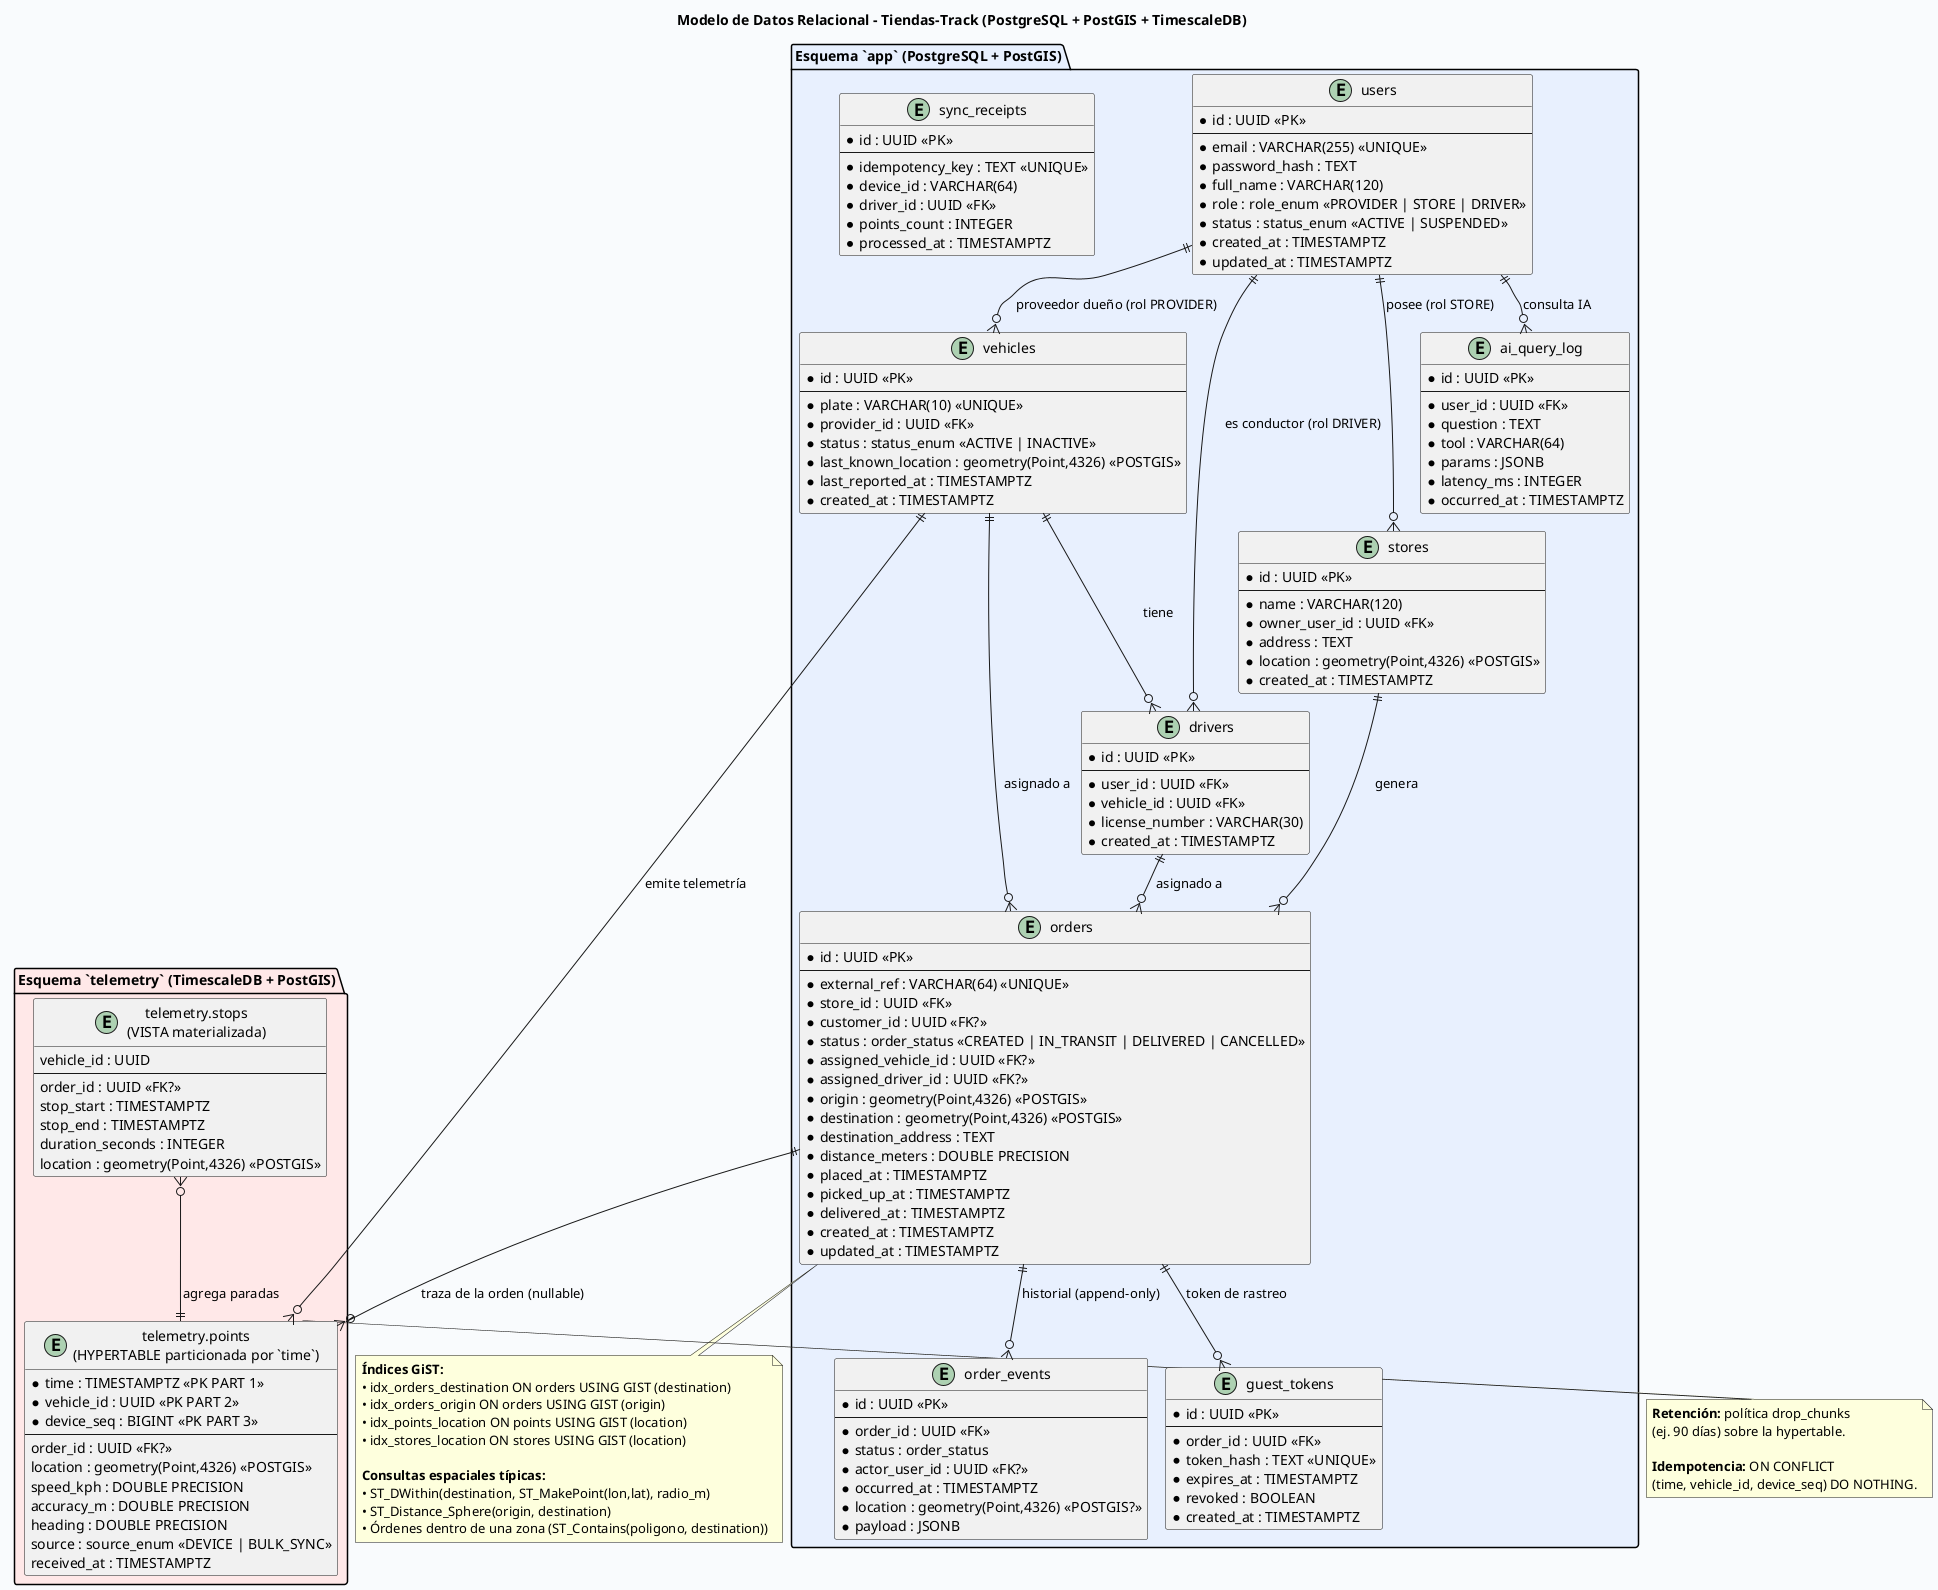
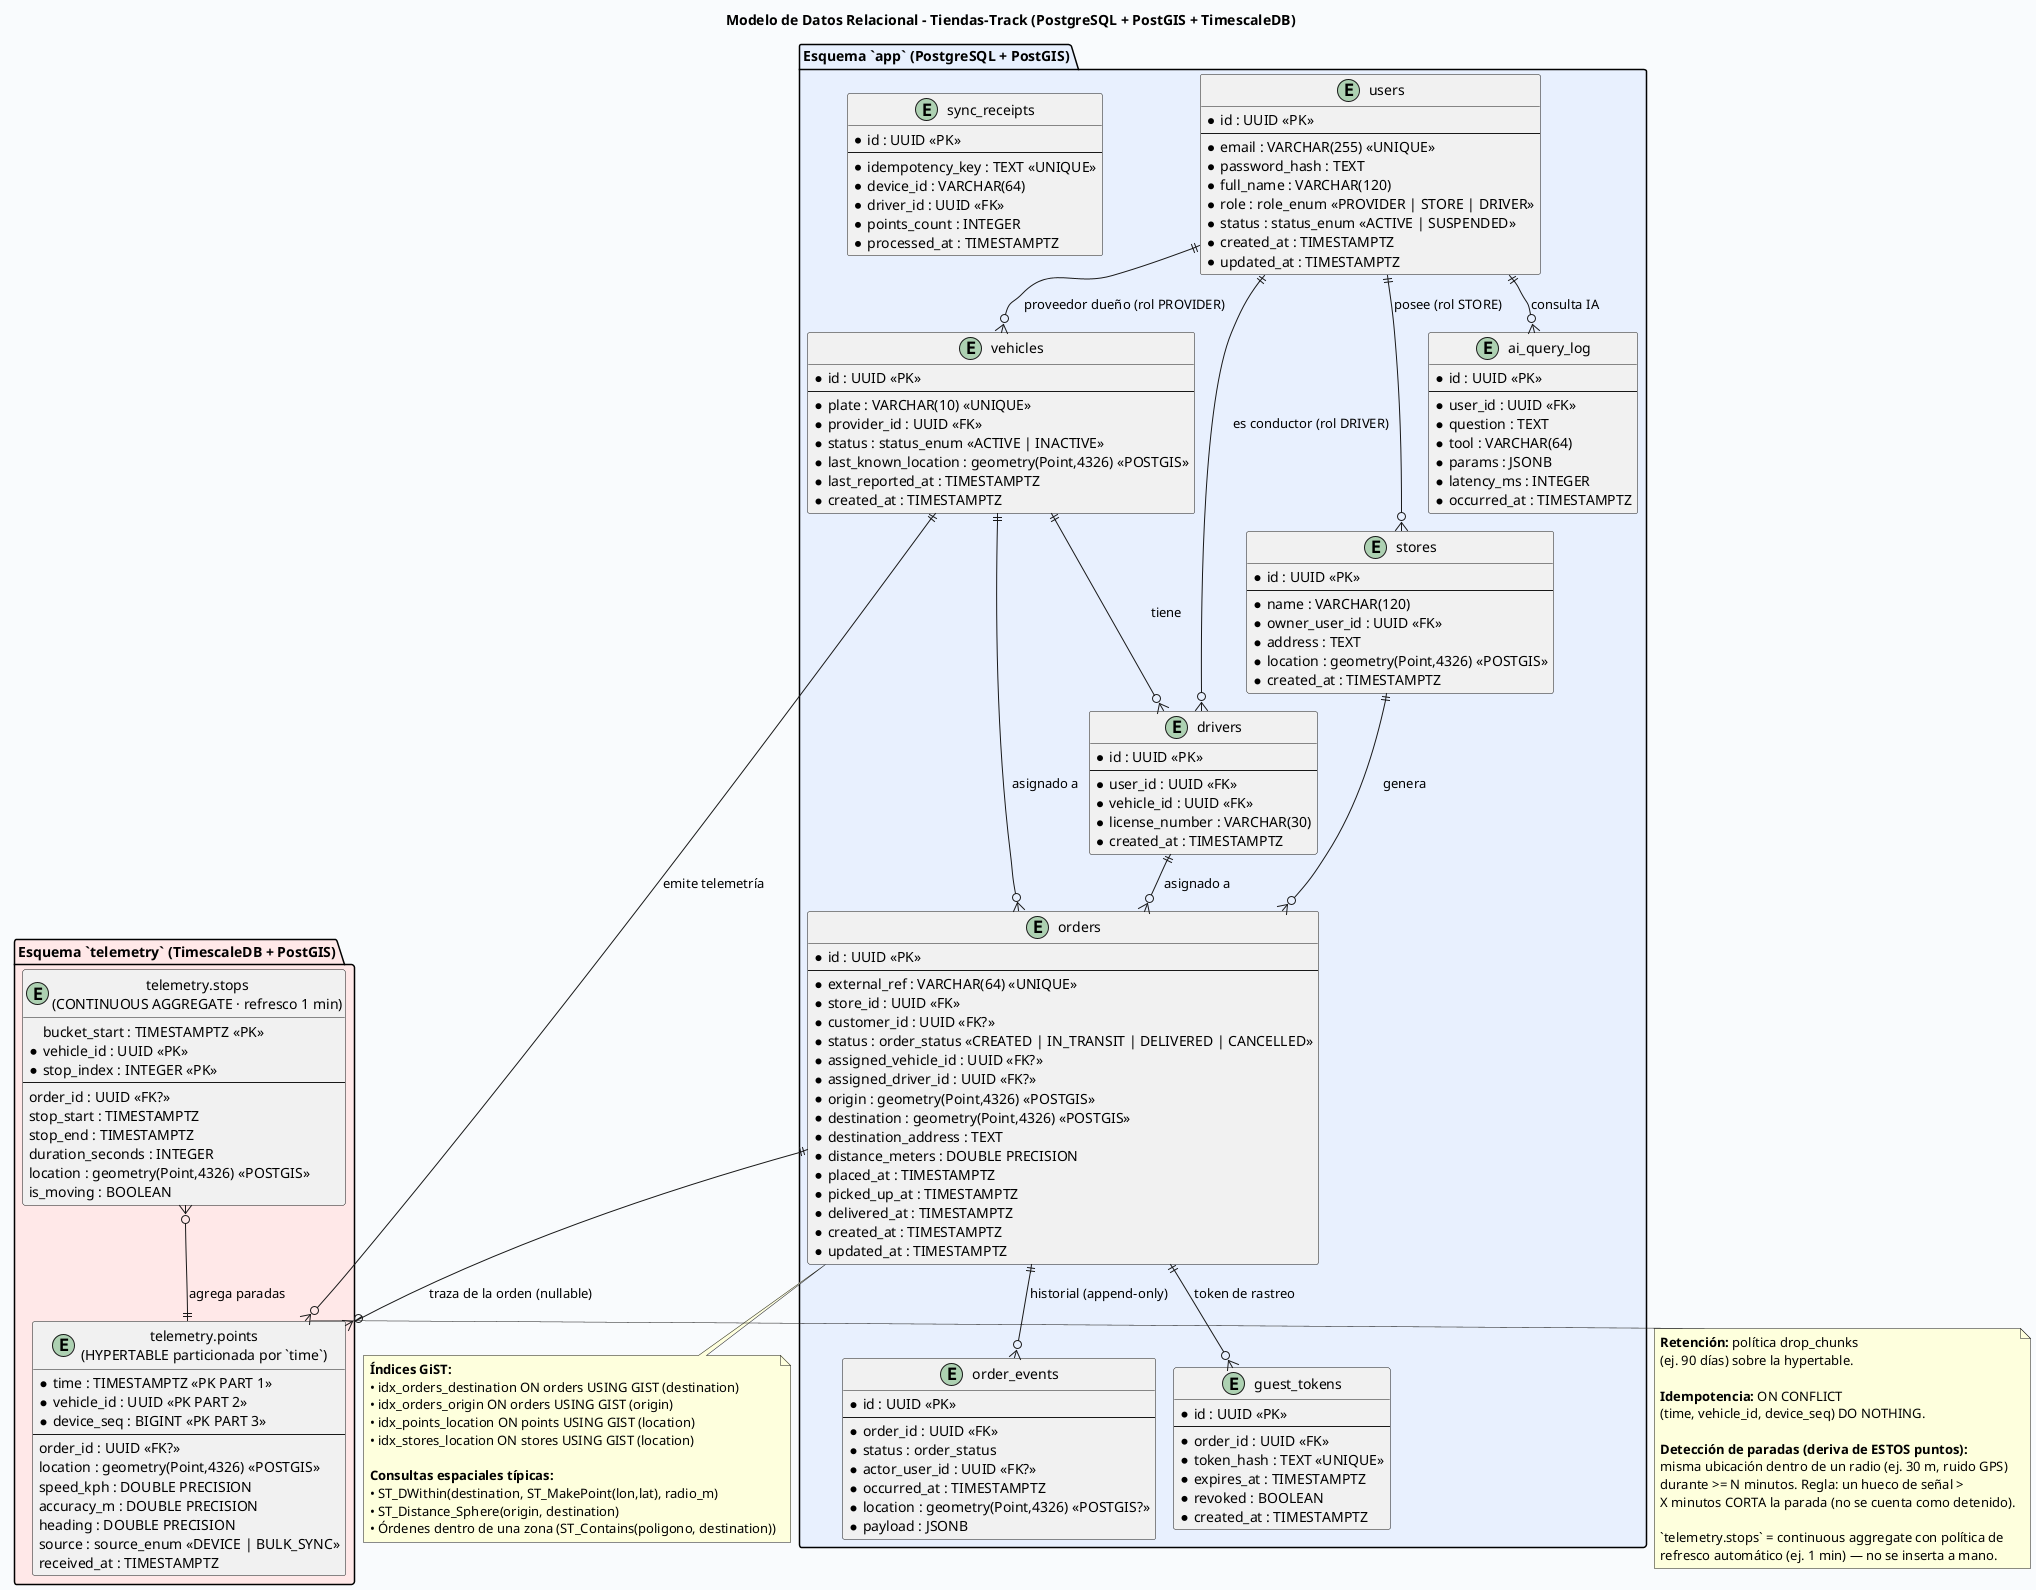
update model data

diff --git a/doc/arquitectura/database/modelo_datos.md b/doc/arquitectura/database/modelo_datos.md
@@ -34,7 +34,7 @@ Todas las coordenadas se almacenan como **`geometry(Point, 4326)`** (SRID 4326 =
 | `stores` | `location` | Ubicación de la tienda de barrio (geocercas, "flota que me surte"). |
 | `vehicles` | `last_known_location` | Última posición conocida (cache de lectura rápida). |
 | `telemetry.points` | `location` | Cada punto GPS de la traza. |
-| `telemetry.stops` | `location` | Centro de cada parada detectada. |
+| `telemetry.stops` | `location` | Centro de cada parada detectada (continuous aggregate derivado de `points`). |
 | `order_events` | `location` (nullable) | Ubicación en el momento del evento (ej. entrega). |
 
 **Ventajas de PostGIS frente a lat/lon simples:**
@@ -124,10 +124,51 @@ SELECT id FROM orders WHERE ST_Contains(:zona::geography::geometry, destination)
 | Objeto | Definición |
 |---|---|
 | `telemetry.points` | **Hypertable** particionada por `time`. PK compuesta `(time, vehicle_id, device_seq)` para tolerar duplicados. Columna `location geometry(Point,4326)` con índice GiST. FK lógica a `vehicles` y `orders` (sin restricción física por desempeño en ingestas masivas). |
-| `telemetry.stops` | Vista/agregado de paradas (vehículo detenido > N minutos) que alimenta al agente IA (`get_stopped_vehicles`). |
+| `telemetry.stops` | **Continuous Aggregate de TimescaleDB** (política de refresco automático, ej. cada 1 min) con los intervalos en que un vehículo estuvo detenido > N minutos dentro de un radio. Alimenta al agente IA (`get_stopped_vehicles`) y los KPIs de permanencia. |
 | Retención | Política `drop_chunks` configurable (ej. 90 días). |
 
 **Idempotencia:** `INSERT ... ON CONFLICT (time, vehicle_id, device_seq) DO NOTHING` para que el Bulk Sync pueda reintentarse sin duplicar (RF-09 / RNF-06).
+
+---
+
+### 3.1 ¿Por qué existe `telemetry.stops` si las paradas se deducen de los puntos?
+
+El sistema **sí detecta las paradas comparando coordenadas en el tiempo** (RF-03): la columna `stops` no es una fuente nueva, es el **resultado materializado de ese cálculo**. La decisión es *cuándo* calcularlo:
+
+| Enfoque | Coste |
+|---|---|
+| Consultar on-the-fly (`LAG()` + `ST_DWithin` sobre `telemetry.points` en cada petición) | Escanea ~1,7 M de filas/día por cada pregunta (100 vehículos × 1 punto/5 s). SQL complejo repetido en cada endpoint y en cada herramienta del agente IA. |
+| **Continuous Aggregate (elegido)** | El mismo cálculo corre como política `refresh_continuous_aggregate` (cada 1 min) y las consultas leen intervalos ya resumidos. Rápido, sin SQL duplicado. |
+| Vista materializada manual | Se obsoleta entre refrescos; requiere cron externo. |
+
+**Criterio de detección (deriva de `telemetry.points`):**
+1. **Radio:** los puntos deben caer dentro de un radio (ej. 30 m) — el GPS tiene ruido de 5–15 m, por eso no se compara igualdad exacta de coordenadas.
+2. **Duración:** el intervalo debe ser ≥ N minutos (ej. 20 min para RF-10).
+3. **Huecos de señal:** un vacío de puntos mayor a X minutos (dispositivo apagado / sin cobertura) **corta** la parada; no se cuenta como tiempo detenido.
+
+**Definición (esquema `telemetry`):**
+
+```sql
+-- Continuous aggregate: bucket de 1 min con posición y estado de movimiento
+CREATE MATERIALIZED VIEW telemetry.stops
+WITH (timescaledb.continuous) AS
+SELECT
+    time_bucket('1 minute', time) AS bucket_start,
+    vehicle_id,
+    location,
+    order_id,
+    ST_DWithin(location, LAG(location) OVER (PARTITION BY vehicle_id ORDER BY time), 30) AS is_moving
+FROM telemetry.points
+GROUP BY bucket_start, vehicle_id, location, order_id;
+
+-- Política de refresco automático
+SELECT add_continuous_aggregate_policy('telemetry.stops',
+    start_offset => INTERVAL '3 hours',
+    end_offset   => INTERVAL '1 minute',
+    schedule_interval => INTERVAL '1 minute');
+```
+
+> Los intervalos de parada (inicio, fin, duración, índice de parada) se derivan de agrupar los buckets consecutivos con `is_moving = false`; el agente IA los lee con `get_stopped_vehicles(minutes, area)`.
 
 ---
 
@@ -140,6 +181,8 @@ CREATE EXTENSION IF NOT EXISTS postgis;
 CREATE EXTENSION IF NOT EXISTS timescaledb;
 -- después: CREATE SCHEMA app; CREATE SCHEMA telemetry;
 -- hypertable: SELECT create_hypertable('telemetry.points', 'time');
+-- continuous aggregate: CREATE MATERIALIZED VIEW telemetry.stops ... (§3.1)
+--                       + add_continuous_aggregate_policy(...)
 ```
 
 El arranque está orquestado por Docker Compose (F1 del plan de desarrollo).
@@ -164,3 +207,4 @@ El arranque está orquestado por Docker Compose (F1 del plan de desarrollo).
 1. **Geocodificación:** ¿quién convierte `destination_address` → coordenadas? Opciones: geocoding en el cliente, al crear la orden en el backend (proveedor externo) o ambas. *Pendiente de decisión.*
 2. **Formato de entrada:** ¿el cliente envía `lat/lon` o dirección? Se recomienda aceptar ambas y persistir siempre la geometría.
 3. **SRID de trabajo:** se asume WGS84 (4326). Si los datos del proveedor vienen en otro SRID, convertir con `ST_Transform` en la frontera de entrada.
+4. **Umbrales de detección de paradas:** radio (propuesto 30 m), duración mínima (RF-10 sugiere 20 min) y corte por hueco de señal (propuesto 5 min) deben quedar como parámetros configurables, no fijados en código.

diff --git a/doc/plan_desarrollo.md b/doc/plan_desarrollo.md
@@ -199,7 +199,7 @@ mobile/src/
 | Objeto | Definición |
 |---|---|
 | `telemetry.points` (hypertable) | time TIMESTAMPTZ, vehicle_id, order_id?, **location geometry(Point,4326)**, speed, accuracy, source (`DEVICE`\|`BULK_SYNC`), device_seq BIGINT — PK compuesta `(time, vehicle_id, device_seq)` |
-| `telemetry.stops` (vista/agregado) | paradas: vehículo detenido > N minutos en un radio — alimenta al agente IA |
+| `telemetry.stops` (**continuous aggregate** de TimescaleDB, refresco 1 min) | paradas: vehículo detenido ≥ N minutos dentro de un radio (ej. 30 m), derivadas de `telemetry.points` — alimenta al agente IA (RF-10) y KPIs |
 | Retención | política `drop_chunks` configurable (ej. 90 días) |
 
 **Reglas de integridad:**
@@ -252,7 +252,7 @@ Códigos: `401 UNAUTHENTICATED` · `403 FORBIDDEN_SCOPE` · `404 NOT_FOUND` · `
 - **Tareas:**
   1. Estructura del monolito Go (§4.1) + `go.mod` + logger + config por env.
   2. `docker-compose.yml`: `backend`, `timescaledb`, `web` (placeholder), migraciones al arrancar.
-  3. Migraciones iniciales: extensiones `postgis` + `timescaledb`, esquemas `app` y `telemetry`, índices GiST, hypertable + retención.
+  3. Migraciones iniciales: extensiones `postgis` + `timescaledb`, esquemas `app` y `telemetry`, índices GiST, hypertable + retención, continuous aggregate `telemetry.stops` + política de refresco.
   4. Healthcheck `GET /healthz`.
 - **Entregables:** repo compila, `make dev` levanta el stack, migraciones aplicadas.
 - **Criterio de aceptación:** `docker compose up` sin errores y `curl /healthz` → 200.
